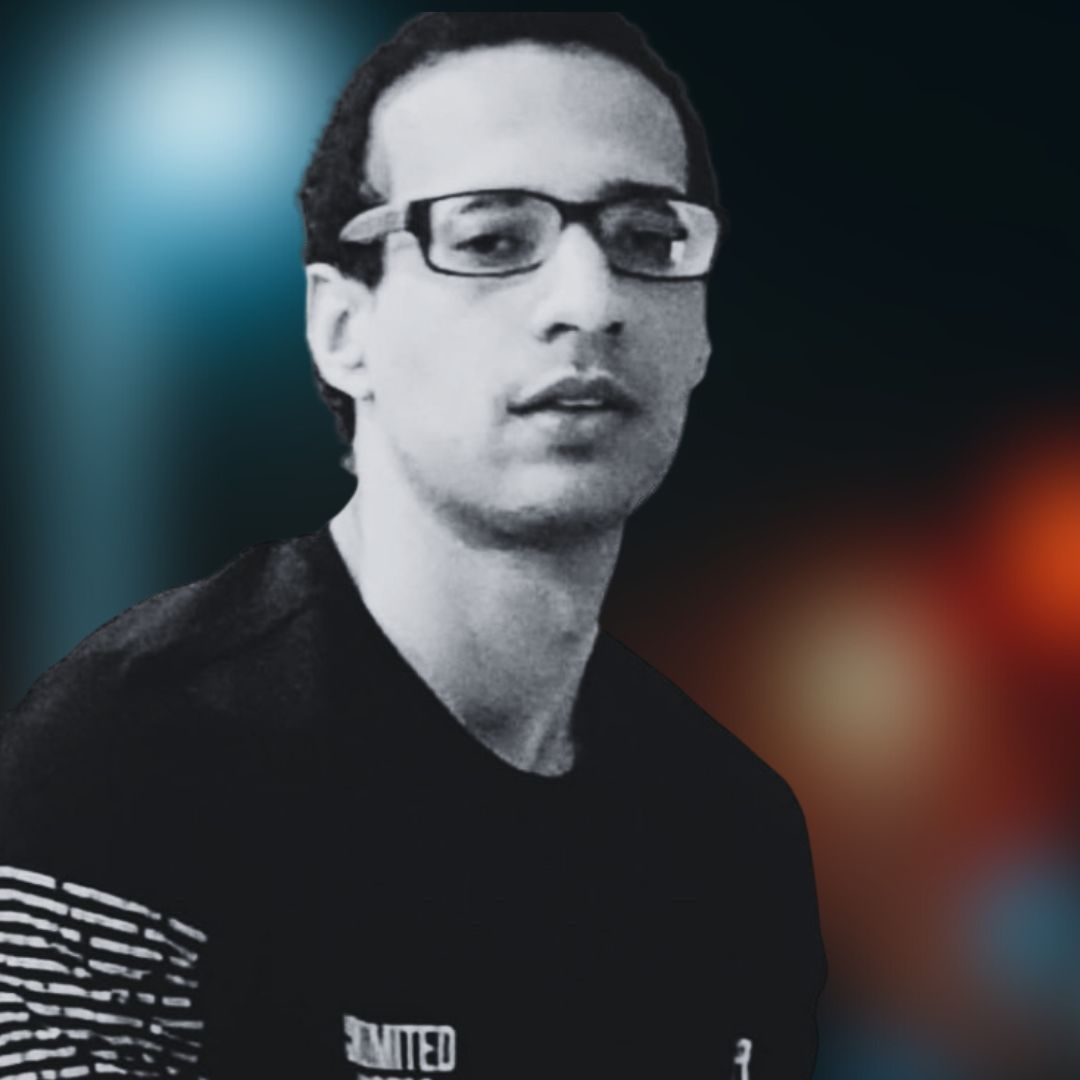
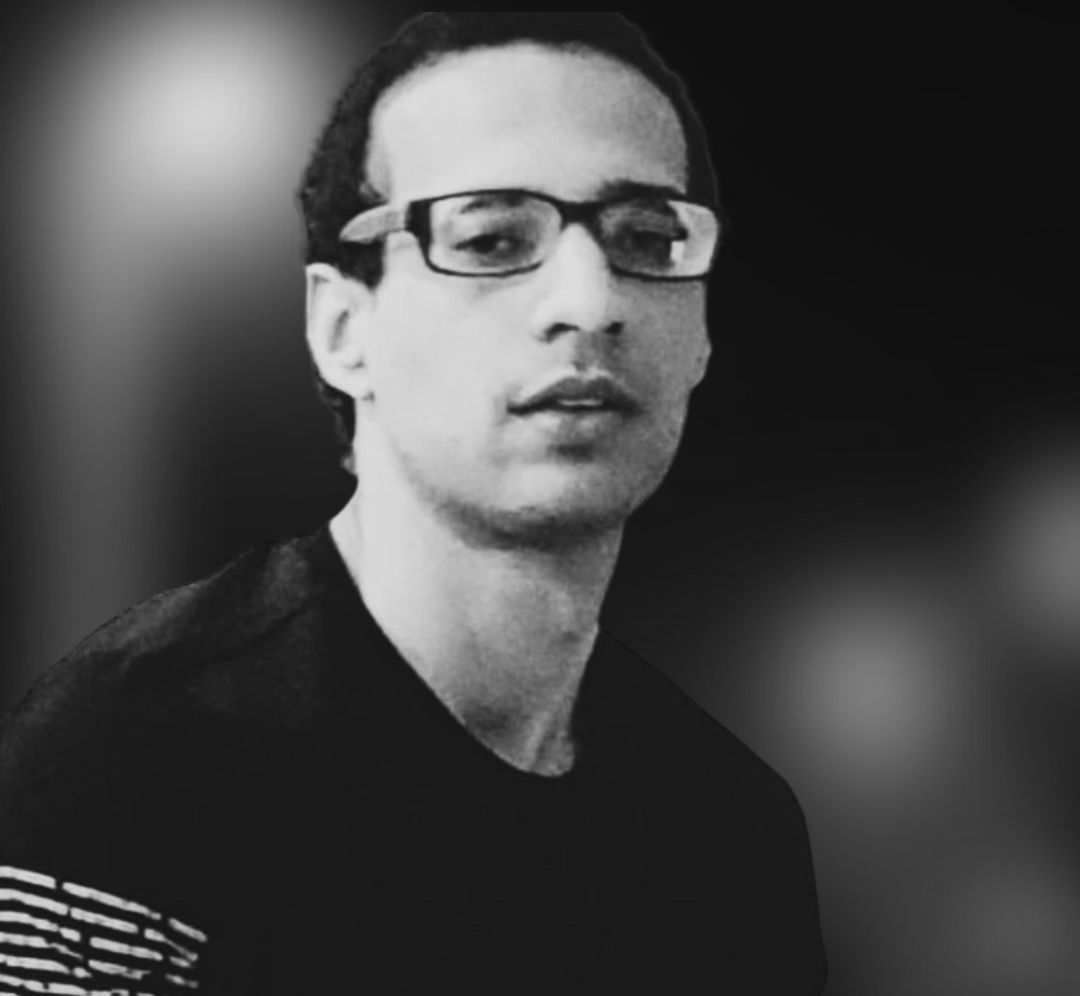
ui fix transparent

diff --git a/src/App.js b/src/App.js
@@ -5,11 +5,17 @@ import { Button, Container, Divider, Grid, Icon, Menu, Segment, Image, Header, L
 
 function App() {
   return (
-    <div style={{ display: 'flex', alignItems: 'center', minHeight: '100vh', backgroundColor: '#000', color: '#fff', paddingTop: 28 }}>
+    <div style={{
+      display: 'flex', alignItems: 'center', minHeight: '100vh',
+      // backgroundColor: '#163172', 
+      background: 'linear-gradient(326deg, rgba(30,3,66,1) 0%, rgba(14,70,163,1) 62%)',
+
+      color: '#F6F6F6', paddingTop: 28
+    }}>
 
       <br />
       <Container inverted>
-        <Menu inverted pointing secondary>
+        <Menu inverted pointing secondary style={{ borderColor: 'transparent' }}>
           <Menu.Item active>
             Youssef Selkani
           </Menu.Item>
@@ -20,109 +26,118 @@ function App() {
             </Menu.Item>
           </Menu.Menu>
         </Menu>
-        <Segment inverted basic fluid padded='very'>
-          <center>
-            <h3>Freelance Software Developer</h3>
-          </center>
-          <Divider hidden />
 
-          <Grid fluid stackable verticalAlign='middle'>
-            <Grid.Column width={6}>
-              <p>
-                Highly skilled professional with a strong background in designing modern user interfaces and managing end-to-end projects.
-                With 7 years of experience in remote working environments, I am adept at producing clean and flawless code that meets the highest standards of quality.
-              </p>
-              <p>
-                One of my key strengths lies in my ability to build and consume various types of APIs enabling me to seamlessly
-                integrate external services and enhance the functionality of applications.
-                Additionally, I have a solid grasp of design tools, which allows me to create visually appealing and user-friendly interfaces.
-              </p>
-              <p>
-                Throughout my career, I have demonstrated adaptability, attention to detail, and analytical thinking skills.
-                I thrive in challenging environments and consistently deliver exceptional results.
-                With a passion for problem-solving and a creative approach to finding innovative solutions,
-                I am committed to developing high-quality software products that exceed expectations.
-              </p>
-            </Grid.Column>
-            <Grid.Column width={10} textAlign='center'>
-              <Image circular centered src={require('./assets/hero.jpg')} size='small' />
-              <Divider hidden />
-              <Button inverted target="_blank" href='https://calendly.com/youssefselkani'>
-                <Icon name='clock' /> Schedule Meeting
-              </Button>
 
-            </Grid.Column>
-          </Grid>
+
+        {/* <div style={{ margin: 100 }} /> */}
+
+
+        <Segment inverted fluid style={{ color: '#F6F6F6', minHeight: '90vh', backgroundColor: 'transparent', display: 'flex', alignItems: 'center' }}>
+          <div>
+            <h3 style={{ textAlign: 'center' }}>Freelance Software Developer | Creating Custom Solutions for SMEs ✨</h3>
+            <Divider hidden />
+            <Grid fluid stackable verticalAlign='middle'>
+              <Grid.Column width={8} textAlign='center'>
+                <Image circular centered src={require('./assets/hero.jpg')} size='small' />
+                <Divider hidden />
+                <Button color='black' target="_blank" href='https://calendly.com/youssefselkani'>
+                  <Icon name='clock' /> Schedule Meeting
+                </Button>
+              </Grid.Column>
+              <Grid.Column width={8}>
+                <p>
+                  Highly skilled professional with a strong background in designing modern user interfaces and managing end-to-end projects.
+                  With 7 years of experience in remote working environments, I am adept at producing clean and flawless code that meets the highest standards of quality.
+                </p>
+                <p>
+                  One of my key strengths lies in my ability to build and consume various types of APIs enabling me to seamlessly
+                  integrate external services and enhance the functionality of applications.
+                  Additionally, I have a solid grasp of design tools, which allows me to create visually appealing and user-friendly interfaces.
+                </p>
+                <p>
+                  Throughout my career, I have demonstrated adaptability, attention to detail, and analytical thinking skills.
+                  I thrive in challenging environments and consistently deliver exceptional results.
+                  With a passion for problem-solving and a creative approach to finding innovative solutions,
+                  I am committed to developing high-quality software products that exceed expectations.
+                </p>
+              </Grid.Column>
+            </Grid>
+
+            <Divider hidden />
+
+            <Grid columns={4} inverted padded fluid stackable verticalAlign='middle'>
+              <Grid.Column>
+                <Button fluid target="_blank" href='https://www.linkedin.com/in/youssefselkani/' inverted basic>
+                  <Icon name='linkedin' /> LinkedIn
+                </Button>
+              </Grid.Column>
+              <Grid.Column>
+                <Button fluid target="_blank" href='https://github.com/usfslk' inverted basic>
+                  <Icon name='github' /> GitHub
+                </Button>
+              </Grid.Column>
+              <Grid.Column>
+                <Button fluid target="_blank" href='https://play.google.com/store/apps/dev?id=5139489492316756034' inverted basic>
+                  <Icon name='google play' /> Google Play
+                </Button>
+              </Grid.Column>
+              <Grid.Column>
+                <Button fluid target="_blank" href='https://www.twitter.net/youssefselkani' inverted basic>
+                  <Icon name='twitter' /> Twitter
+                </Button>
+              </Grid.Column>
+            </Grid>
+          </div>
 
         </Segment>
 
-        <Grid columns={4} inverted padded divided fluid stackable verticalAlign='middle'>
-          <Grid.Column>
-            <Button fluid target="_blank" href='https://www.linkedin.com/in/youssefselkani/' inverted basic>
-              <Icon name='linkedin' /> LinkedIn
-            </Button>
-          </Grid.Column>
-          <Grid.Column>
-            <Button fluid target="_blank" href='https://github.com/usfslk' inverted basic>
-              <Icon name='github' /> GitHub
-            </Button>
-          </Grid.Column>
-          <Grid.Column>
-            <Button fluid target="_blank" href='https://play.google.com/store/apps/dev?id=5139489492316756034' inverted basic>
-              <Icon name='google play' /> Google Play
-            </Button>
-          </Grid.Column>
-          <Grid.Column>
-            <Button fluid target="_blank" href='https://www.twitter.net/youssefselkani' inverted basic>
-              <Icon name='twitter' /> Twitter
-            </Button>
-          </Grid.Column>
-        </Grid>
 
         <h2>Skills</h2>
+        <Divider hidden />
 
-        <Grid columns={3}>
+        <Grid columns={3} stackable>
           <Grid.Column>
-            <Segment inverted padded='very' placeholder>
-              <h3>Strategic <br/>Planning</h3>
+            <Segment inverted padded='very' >
+              <h3>Strategic <br />Planning</h3>
               <p>Formulating strategies to achieve organizational goals.</p>
             </Segment>
           </Grid.Column>
           <Grid.Column>
-            <Segment inverted padded='very' placeholder>
-              <h3>Database <br/>Design</h3>
+            <Segment inverted padded='very' >
+              <h3>Database <br />Design</h3>
               <p>Designing efficient and scalable modern database systems.</p>
             </Segment>
           </Grid.Column>
           <Grid.Column>
-            <Segment inverted padded='very' placeholder>
-              <h3>Creative <br/>Problem Solving</h3>
+            <Segment inverted padded='very' >
+              <h3>Creative <br />Problem Solving</h3>
               <p>Generating solutions to challenging problems.</p>
             </Segment>
           </Grid.Column>
           <Grid.Column>
-            <Segment inverted padded='very' placeholder>
-              <h3>Analytical <br/>Thinking</h3>
+            <Segment inverted padded='very' >
+              <h3>Analytical <br />Thinking</h3>
               <p>Applying logical and rational reasoning to solve complex issues.</p>
             </Segment>
           </Grid.Column>
           <Grid.Column>
-            <Segment inverted padded='very' placeholder>
-              <h3>Information <br/>Architecture</h3>
+            <Segment inverted padded='very' >
+              <h3>Information <br />Architecture</h3>
               <p>Structuring information for optimal accessibility & usability.</p>
             </Segment>
           </Grid.Column>
           <Grid.Column>
-            <Segment inverted padded='very' placeholder>
-              <h3>Data <br/>Analysis</h3>
+            <Segment inverted padded='very' >
+              <h3>Data <br />Analysis</h3>
               <p>Interpreting complex data to inform decision-making.</p>
             </Segment>
           </Grid.Column>
         </Grid>
 
         <h2>Employment History</h2>
+        <Divider hidden />
 
-        <Segment fluid inverted>
+        <Segment padded='very' fluid inverted>
           <h4>Web Developer at Trajectory US</h4>
           <em>Oct, 2023 - Nov, 2023</em>
           <Divider />
@@ -133,7 +148,7 @@ function App() {
           <Button href='https://trajectory.us.com/' basic inverted target="_blank">View</Button>
         </Segment>
 
-        <Segment fluid inverted>
+        <Segment padded='very' fluid inverted>
           <h4>Mobile App Developer at C.F. Print</h4>
           <em>Feb, 2021 - May, 2022</em>
           <Divider />
@@ -144,7 +159,7 @@ function App() {
           <Button href='https://play.google.com/store/apps/details?id=com.usfslk.cfprint' basic inverted target="_blank">View</Button>
         </Segment>
 
-        <Segment fluid inverted>
+        <Segment padded='very' fluid inverted>
           <h4>Mobile App Developer at Rthath One</h4>
           <em>Jan, 2021 - May, 2021</em>
           <Divider />
@@ -155,7 +170,7 @@ function App() {
           <Button href='https://play.google.com/store/apps/details?id=com.rthathone' basic inverted target="_blank">View</Button>
         </Segment>
 
-        <Segment fluid inverted>
+        <Segment padded='very' fluid inverted>
           <h4>Mobile App Developer at Netflix</h4>
           <em>Apr, 2020 - Aug, 2020</em>
           <Divider />
@@ -167,7 +182,7 @@ function App() {
           <Button href='https://imgur.com/a/9mCawqU' basic inverted target="_blank">View</Button>
         </Segment>
 
-        <Segment fluid inverted>
+        <Segment padded='very' fluid inverted>
           <h4>Product Designer at GlobalBarter</h4>
           <em>May, 2020 - Jun, 2020</em>
           <Divider />
@@ -177,7 +192,7 @@ function App() {
           <Button href='https://invis.io/XJNJQ946SMR ' basic inverted target="_blank">View</Button>
         </Segment>
 
-        <Segment fluid inverted>
+        <Segment padded='very' fluid inverted>
           <h4>Full-Stack Developer at Earthmo</h4>
           <em>Mar, 2020 - Apr, 2020</em>
           <Divider />
@@ -186,7 +201,7 @@ function App() {
           <Button href='https://earthmo-d47b3.firebaseapp.com/' basic inverted target="_blank">View</Button>
         </Segment>
 
-        <Segment fluid inverted>
+        <Segment padded='very' fluid inverted>
           <h4>Full-Stack Developer at Murkstom</h4>
           <em>Jul, 2019 - Mar, 2020</em>
           <Divider />
@@ -196,7 +211,7 @@ function App() {
           <Button href='https://webview-ea6af.web.app/' basic inverted target="_blank">View</Button>
         </Segment>
 
-        <Segment fluid inverted>
+        <Segment padded='very' fluid inverted>
           <h4>Mobile App Developer at Museum of the American Arts & Crafts Movement</h4>
           <em>Jan, 2019 - Apr, 2019</em>
           <Divider />
@@ -206,7 +221,7 @@ function App() {
           <Button disabled basic inverted target="_blank">Confidential</Button>
         </Segment>
 
-        <Segment fluid inverted>
+        <Segment padded='very' fluid inverted>
           <h4>Front-End Developer at CVS Health</h4>
           <em>May, 2019 - Jun, 2019</em>
           <Divider />
@@ -216,7 +231,7 @@ function App() {
           <Button href='https://cvsbanner.firebaseapp.com' basic inverted target="_blank">View</Button>
         </Segment>
 
-        <Segment fluid inverted>
+        <Segment padded='very' fluid inverted>
           <h4>UX Designer at liSt</h4>
           <em>May, 2017 - Aug, 2017</em>
           <Divider />
@@ -226,7 +241,7 @@ function App() {
           <Button href='https://marvelapp.com/5h9j6b3/screen/37966689' basic inverted target="_blank">View</Button>
         </Segment>
 
-        <Segment fluid inverted>
+        <Segment padded='very' fluid inverted>
           <h4>UX Designer at BidClipz</h4>
           <em>Feb, 2016 - Apr, 2016</em>
           <Divider />
@@ -237,8 +252,9 @@ function App() {
         </Segment>
 
         <h2>Education</h2>
+        <Divider hidden />
 
-        <Segment fluid inverted>
+        <Segment padded='very' fluid inverted>
           <h4>Data Science Specialization at Johns Hopkins University</h4>
           <em>Jan, 2022 - Jul, 2022</em>
           <Divider />
@@ -248,7 +264,7 @@ function App() {
           <Button href='https://coursera.org/share/ca90a0c5642a0b6a026b7a2331873643' basic inverted target="_blank">View</Button>
         </Segment>
 
-        <Segment fluid inverted>
+        <Segment padded='very' fluid inverted>
           <h4>Data Analytics Certificate at Google</h4>
           <em>Jul, 2022 - Aug, 2022</em>
           <Divider />
@@ -258,7 +274,7 @@ function App() {
           <Button href='https://www.credly.com/badges/8a794dbb-1bd9-46e0-8ac6-f7b32d170ddb/public_url' basic inverted target="_blank">View</Button>
         </Segment>
 
-        <Segment fluid inverted>
+        <Segment padded='very' fluid inverted>
           <h4>Introduction to APIs in Google Cloud at Google</h4>
           <em>Jul, 2022 - Sep, 2022</em>
           <Divider />
@@ -269,11 +285,10 @@ function App() {
           <Button href='https://coursera.org/verify/UQPAL75F4D6C' basic inverted target="_blank">View</Button>
         </Segment>
 
-
-
         <h2>Languages</h2>
+        <Divider hidden />
 
-        <Segment fluid inverted>
+        <Segment padded='very' fluid inverted>
           <Grid stackable columns={2} verticalAlign='middle'>
             <Grid.Column>
               <h3>English</h3>
@@ -287,9 +302,7 @@ function App() {
           </Grid>
         </Segment>
 
-        <Divider />
-
-        <Segment fluid inverted>
+        <Segment padded='very' fluid inverted>
           <Grid stackable columns={2} verticalAlign='middle'>
             <Grid.Column>
               <h3>French</h3>
